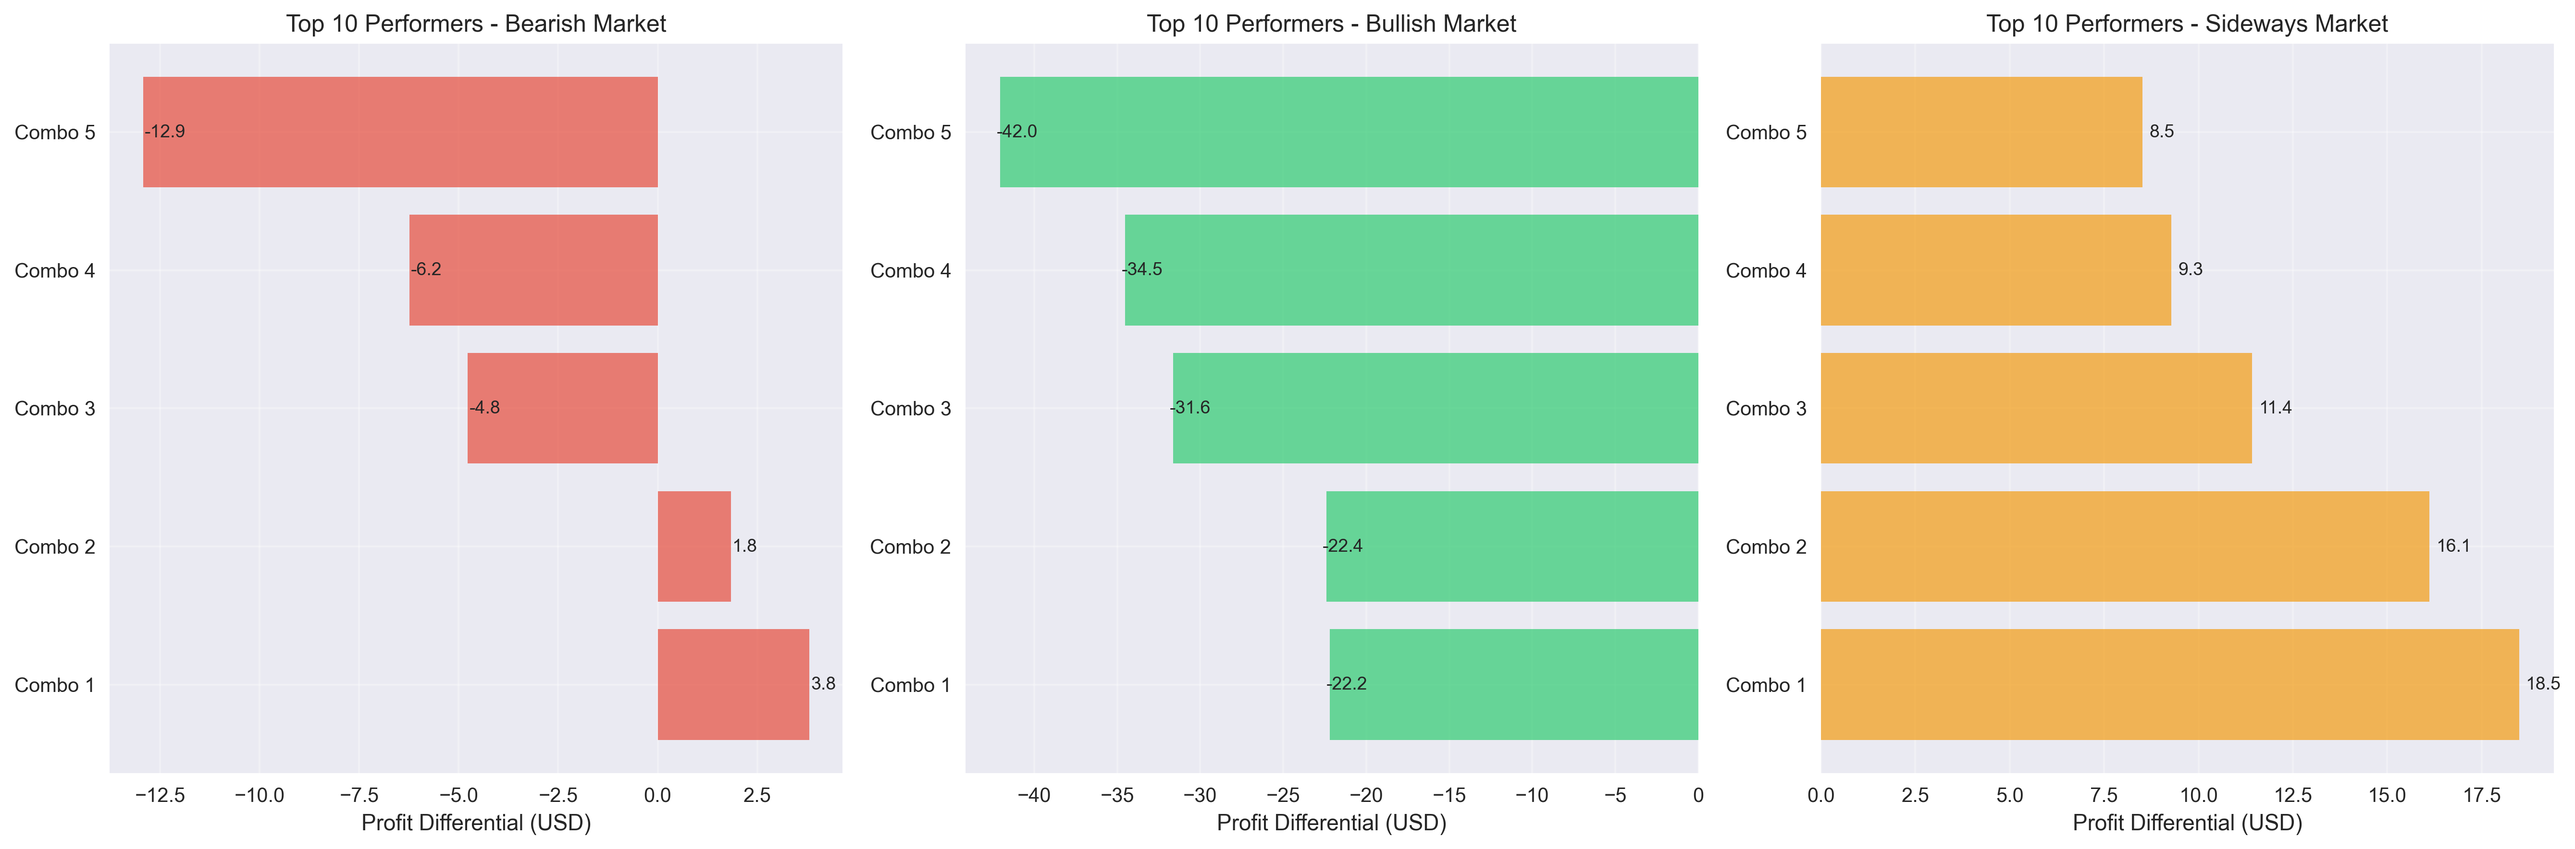
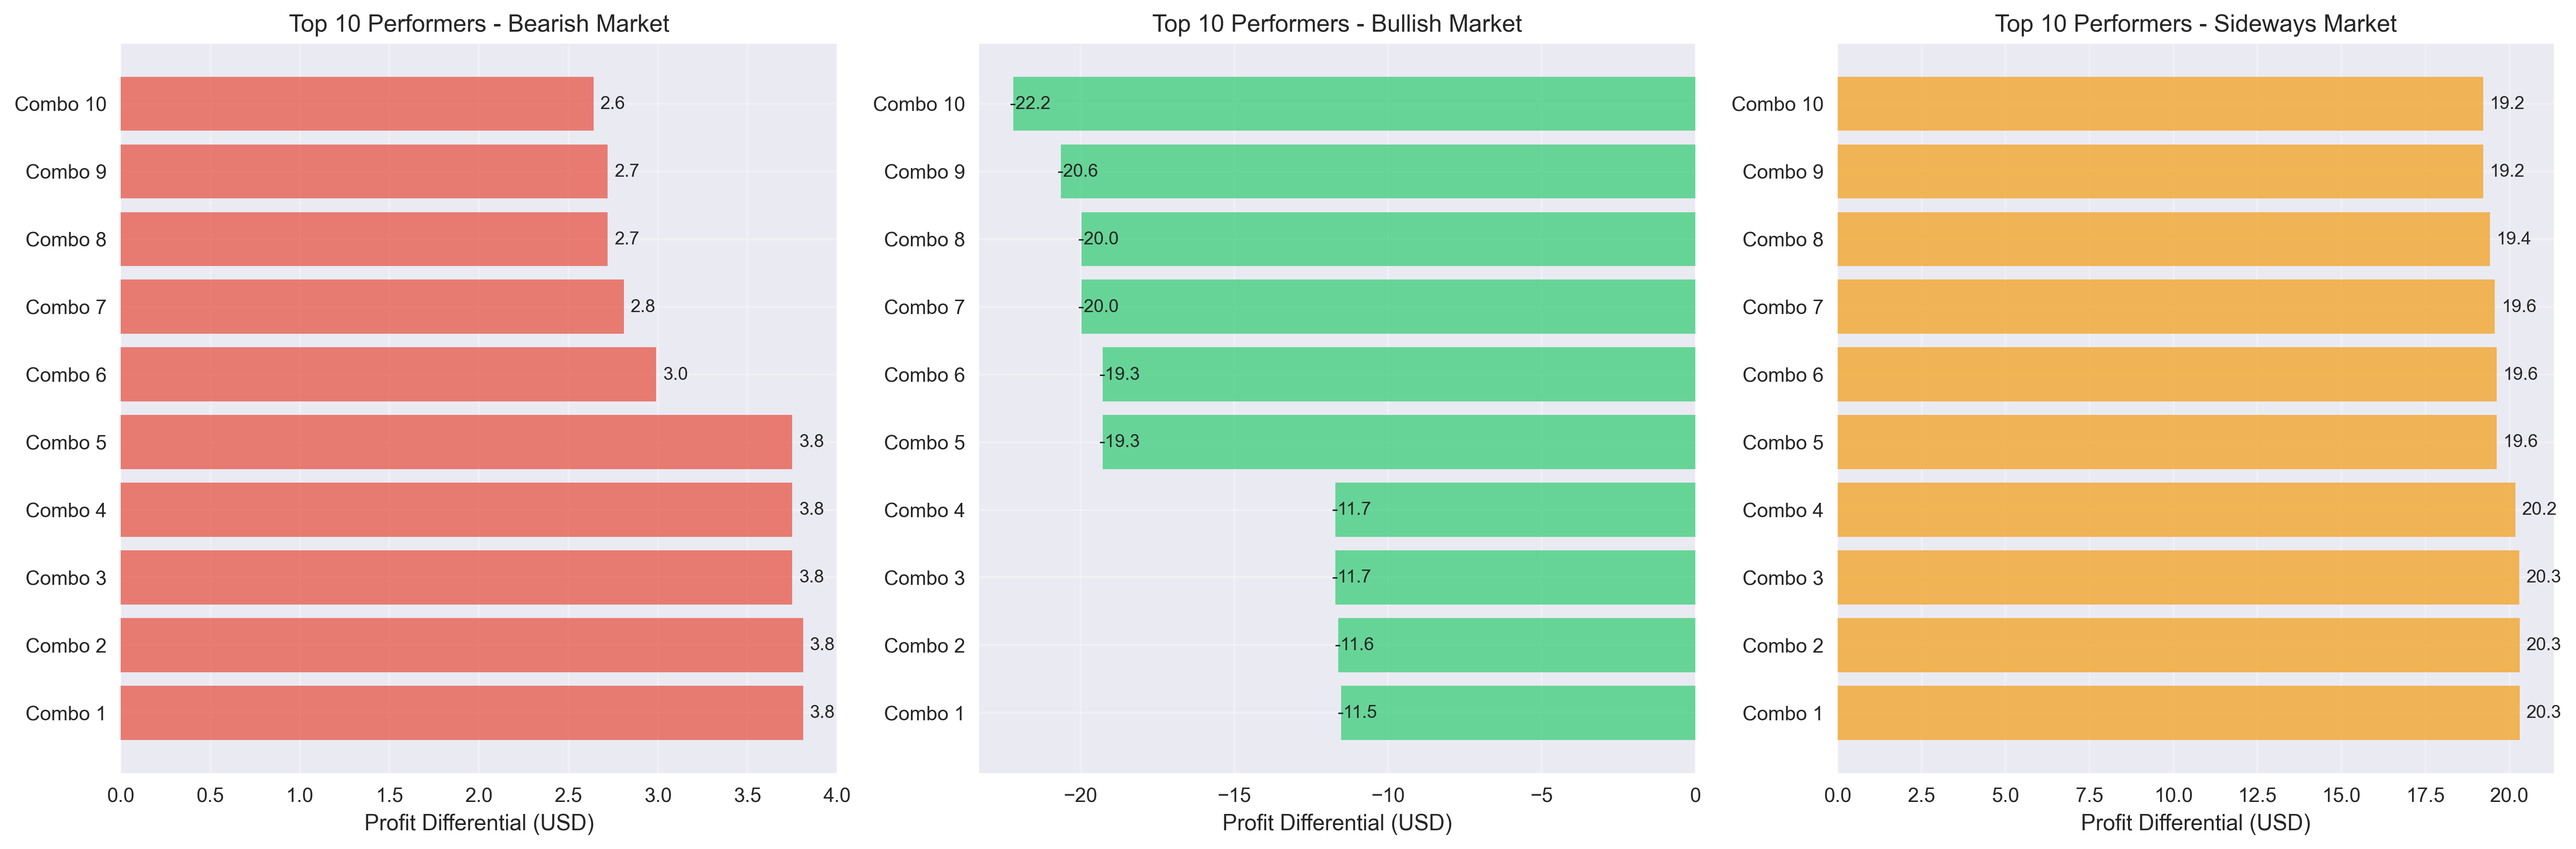
100 options/60 months

diff --git a/data/analysis_results.md b/data/analysis_results.md
@@ -32,19 +32,19 @@ This metric quantifies how much better (or worse) the trading strategy performs 
 #### Market Trend: Bearish
 
 **Combo 1:**
-- Parameters: base_trade_pct: 0.2, trigger_pct: 0.2, max_trade_usd: 1000, multiplier: 1.2
+- Parameters: base_trade_pct: 0.2, trigger_pct: 0.2, max_trade_usd: 500, multiplier: 1.2
 - Profit_Diff: 3.81, Trading: -150.46, Hold: -154.27
 - Months: 7, Avg Trades: 2.86
 
 **Combo 2:**
-- Parameters: base_trade_pct: 0.2, trigger_pct: 0.2, max_trade_usd: 500, multiplier: 1.0
-- Profit_Diff: 1.84, Trading: -152.43, Hold: -154.27
+- Parameters: base_trade_pct: 0.2, trigger_pct: 0.2, max_trade_usd: 750, multiplier: 1.2
+- Profit_Diff: 3.81, Trading: -150.46, Hold: -154.27
 - Months: 7, Avg Trades: 2.86
 
 **Combo 3:**
-- Parameters: base_trade_pct: 0.2, trigger_pct: 0.05, max_trade_usd: 1000, multiplier: 1.1
-- Profit_Diff: -4.77, Trading: -159.04, Hold: -154.27
-- Months: 7, Avg Trades: 32.43
+- Parameters: base_trade_pct: 0.3, trigger_pct: 0.2, max_trade_usd: 500, multiplier: 1.2
+- Profit_Diff: 3.75, Trading: -150.52, Hold: -154.27
+- Months: 7, Avg Trades: 2.86
 
 **Conclusion (Bearish):** Under bearish conditions, the algorithm effectively mitigates losses relative to holding. The strategy demonstrates risk reduction capabilities during market downturns.
 
@@ -52,19 +52,19 @@ This metric quantifies how much better (or worse) the trading strategy performs 
 #### Market Trend: Bullish
 
 **Combo 1:**
-- Parameters: base_trade_pct: 0.2, trigger_pct: 0.2, max_trade_usd: 500, multiplier: 1.0
-- Profit_Diff: -22.18, Trading: 192.51, Hold: 214.69
+- Parameters: base_trade_pct: 0.1, trigger_pct: 0.2, max_trade_usd: 500, multiplier: 1.0
+- Profit_Diff: -11.52, Trading: 203.17, Hold: 214.69
 - Months: 17, Avg Trades: 1.88
 
 **Combo 2:**
-- Parameters: base_trade_pct: 0.2, trigger_pct: 0.2, max_trade_usd: 1000, multiplier: 1.2
-- Profit_Diff: -22.40, Trading: 192.29, Hold: 214.69
+- Parameters: base_trade_pct: 0.1, trigger_pct: 0.2, max_trade_usd: 500, multiplier: 1.1
+- Profit_Diff: -11.61, Trading: 203.08, Hold: 214.69
 - Months: 17, Avg Trades: 1.88
 
 **Combo 3:**
-- Parameters: base_trade_pct: 0.2, trigger_pct: 0.1, max_trade_usd: 500, multiplier: 1.0
-- Profit_Diff: -31.63, Trading: 183.06, Hold: 214.69
-- Months: 17, Avg Trades: 6.18
+- Parameters: base_trade_pct: 0.1, trigger_pct: 0.2, max_trade_usd: 500, multiplier: 1.2
+- Profit_Diff: -11.71, Trading: 202.98, Hold: 214.69
+- Months: 17, Avg Trades: 1.88
 
 **Conclusion (Bullish):** In bullish markets, the trading strategy tends to underperform compared to simply holding assets. This suggests that the algorithm may interrupt the full capture of upward trends through premature trading decisions.
 
@@ -72,19 +72,19 @@ This metric quantifies how much better (or worse) the trading strategy performs 
 #### Market Trend: Sideways
 
 **Combo 1:**
-- Parameters: base_trade_pct: 0.4, trigger_pct: 0.05, max_trade_usd: 1000, multiplier: 1.0
-- Profit_Diff: 18.49, Trading: 13.50, Hold: -4.99
-- Months: 36, Avg Trades: 15.22
+- Parameters: base_trade_pct: 0.5, trigger_pct: 0.05, max_trade_usd: 1000, multiplier: 1.2
+- Profit_Diff: 20.31, Trading: 15.32, Hold: -4.99
+- Months: 36, Avg Trades: 14.86
 
 **Combo 2:**
-- Parameters: base_trade_pct: 0.2, trigger_pct: 0.05, max_trade_usd: 1000, multiplier: 1.1
-- Profit_Diff: 16.12, Trading: 11.13, Hold: -4.99
-- Months: 36, Avg Trades: 15.22
+- Parameters: base_trade_pct: 0.5, trigger_pct: 0.05, max_trade_usd: 750, multiplier: 1.2
+- Profit_Diff: 20.31, Trading: 15.32, Hold: -4.99
+- Months: 36, Avg Trades: 14.86
 
 **Combo 3:**
-- Parameters: base_trade_pct: 0.2, trigger_pct: 0.1, max_trade_usd: 500, multiplier: 1.0
-- Profit_Diff: 11.42, Trading: 6.43, Hold: -4.99
-- Months: 36, Avg Trades: 3.72
+- Parameters: base_trade_pct: 0.5, trigger_pct: 0.05, max_trade_usd: 500, multiplier: 1.2
+- Profit_Diff: 20.30, Trading: 15.31, Hold: -4.99
+- Months: 36, Avg Trades: 14.86
 
 **Conclusion (Sideways):** The strategy performs exceptionally well in sideways markets, where active trading capitalizes on price fluctuations that provide little benefit to a hold strategy.
 
@@ -92,9 +92,9 @@ This metric quantifies how much better (or worse) the trading strategy performs 
 
 | Market Trend | Mean Profit Diff | Std Dev | Min | Max |
 |-------------|------------------|---------|-----|-----|
-| Bearish | -3.66 | 6.71 | -12.93 | 3.81 |
-| Bullish | -30.55 | 8.45 | -42.04 | -22.18 |
-| Sideways | 12.76 | 4.36 | 8.51 | 18.49 |
+| Bearish | -9.69 | 10.68 | -31.85 | 3.81 |
+| Bullish | -34.53 | 10.05 | -52.58 | -11.52 |
+| Sideways | 12.77 | 4.56 | 4.46 | 20.31 |
 
 ## Key Insights & Recommendations
 
